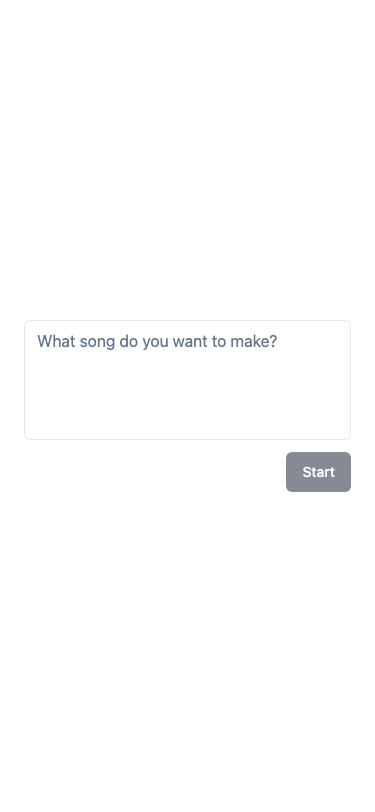
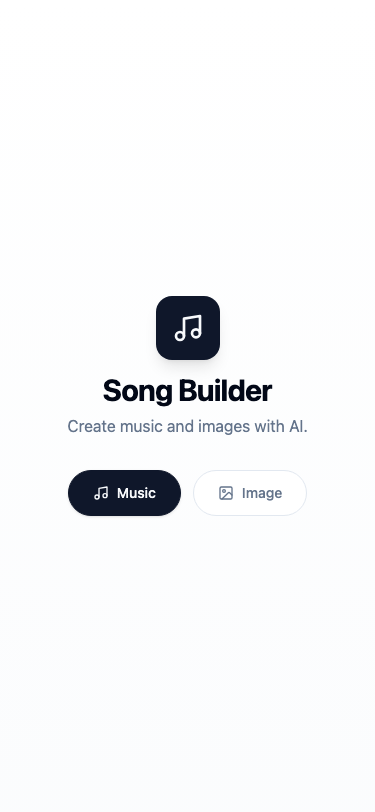
feat(US-009): add shared home at / with Music/Image tab switcher
- Add SharedHome component at src/shared/components/SharedHome.tsx
  showing Music and Image tab links with active state based on URL prefix
- Update App.tsx to render SharedHome at / instead of Navigate redirect
- Update home.spec.ts with new tab switcher assertions (US-009)
- Update smoke.spec.ts to verify SharedHome renders at /
- Update mobile-qa.spec.ts QA-01/QA-02 for new / behavior
- Update screenshot-baselines.spec.ts home tests for SharedHome content
- Regenerate home-desktop.png and home-mobile.png baselines

Changed region(s): [[0.088, 0.3387, 0.9387, 0.6466], [0.5867, 0.585, 0.616, 0.6158]]

diff --git a/tests/music/home.spec.ts b/tests/music/home.spec.ts
@@ -1,66 +1,51 @@
 /**
- * Tests for US-003: Home page redesign (single prompt, creates root message).
+ * Tests for US-009: Shared home at / with Music/Image tab switcher.
  *
  * Verifies that:
- * - The home page shows only a centered prompt input with the correct placeholder
- * - Submitting creates a root Message (parentId: null) in storage
- * - After submit the URL changes to /lyrics/:messageId
+ * - The root path / renders the SharedHome component with Music and Image tabs
+ * - Music tab links to /music, Image tab links to /image
+ * - Active tab highlighting reflects the current URL prefix
+ * - No top-bar or breadcrumbs are shown on the shared home
  */
 
 import { test, expect } from "@playwright/test";
 import { clearStorage } from "./helpers/seed";
 
-test.describe("Home page — single prompt (US-003)", () => {
+test.describe("Shared home page — tab switcher (US-009)", () => {
   test.beforeEach(async ({ page }) => {
     await clearStorage(page);
     await page.goto("/");
   });
 
-  test("shows a prompt textarea with correct placeholder", async ({ page }) => {
-    const textarea = page.getByPlaceholder("What song do you want to make?");
-    await expect(textarea).toBeVisible();
+  test("shows Music tab linking to /music", async ({ page }) => {
+    const musicTab = page.getByTestId("tab-music");
+    await expect(musicTab).toBeVisible();
+    await expect(musicTab).toHaveAttribute("href", "/music");
   });
 
-  test("shows a submit button", async ({ page }) => {
-    await expect(page.getByRole("button", { name: "Start" })).toBeVisible();
+  test("shows Image tab linking to /image", async ({ page }) => {
+    const imageTab = page.getByTestId("tab-image");
+    await expect(imageTab).toBeVisible();
+    await expect(imageTab).toHaveAttribute("href", "/image");
   });
 
-  test("does not show breadcrumbs or top bar on home", async ({ page }) => {
+  test("Music tab is active (aria-current=page) when at /", async ({ page }) => {
+    const musicTab = page.getByTestId("tab-music");
+    await expect(musicTab).toHaveAttribute("aria-current", "page");
+  });
+
+  test("Image tab is not active when at /", async ({ page }) => {
+    const imageTab = page.getByTestId("tab-image");
+    await expect(imageTab).not.toHaveAttribute("aria-current", "page");
+  });
+
+  test("does not show breadcrumbs or top bar on shared home", async ({ page }) => {
     await expect(page.getByTestId("top-bar")).not.toBeVisible();
+    await expect(page.getByLabel("Breadcrumb")).not.toBeVisible();
   });
 
-  test("submit creates a root Message and navigates to /lyrics/:messageId", async ({
-    page,
-  }) => {
-    const textarea = page.getByPlaceholder("What song do you want to make?");
-    await textarea.fill("A funky anthem about coffee");
-
-    await page.getByRole("button", { name: "Start" }).click();
-
-    // URL should have navigated to /lyrics/:messageId
-    await expect(page).toHaveURL(/\/music\/lyrics\/[^/]+$/);
-
-    // Extract messageId from URL
-    const url = page.url();
-    const messageId = url.split("/music/lyrics/")[1];
-
-    // Verify the message exists in storage with parentId: null
-    const message = await page.evaluate((id: string) => {
-      return window.storageService.getMessage(id);
-    }, messageId);
-
-    expect(message).not.toBeNull();
-    expect(message!.parentId).toBeNull();
-    expect(message!.role).toBe("user");
-    expect(message!.content).toBe("A funky anthem about coffee");
-  });
-
-  test("submit button is disabled when input is empty", async ({ page }) => {
-    await expect(page.getByRole("button", { name: "Start" })).toBeDisabled();
-  });
-
-  test("submit button is enabled after typing", async ({ page }) => {
-    await page.getByPlaceholder("What song do you want to make?").fill("hello");
-    await expect(page.getByRole("button", { name: "Start" })).toBeEnabled();
+  test("clicking Music tab navigates to /music", async ({ page }) => {
+    await page.getByTestId("tab-music").click();
+    await expect(page).toHaveURL("/music");
   });
 });

diff --git a/src/shared/components/SharedHome.tsx b/src/shared/components/SharedHome.tsx
@@ -1,0 +1,75 @@
+/**
+ * SharedHome — root landing page at /.
+ *
+ * Shows Music and Image tabs. Active tab is determined by the current URL prefix.
+ * Clicking a tab navigates to /music or /image.
+ *
+ * Acceptance criteria (US-009):
+ *   - Music tab links to /music
+ *   - Image tab links to /image
+ *   - Active tab visually highlighted based on current URL prefix
+ */
+
+import { Link, useLocation } from "react-router-dom";
+import { Music, ImageIcon } from "lucide-react";
+
+export default function SharedHome() {
+  const { pathname } = useLocation();
+
+  const musicActive = pathname.startsWith("/music") || pathname === "/";
+  const imageActive = pathname.startsWith("/image");
+
+  const tabBase =
+    "flex items-center gap-2 px-6 py-3 text-sm font-medium rounded-full border transition-colors";
+  const activeTab =
+    "bg-primary text-primary-foreground border-primary shadow-sm";
+  const inactiveTab =
+    "bg-background text-muted-foreground border-border hover:bg-accent hover:text-accent-foreground";
+
+  return (
+    <div
+      className="min-h-screen flex flex-col items-center justify-center gap-8 p-6 bg-gradient-to-b from-background to-secondary/30"
+      data-testid="shared-home"
+    >
+      {/* Branding */}
+      <div className="flex flex-col items-center gap-3 text-center">
+        <div className="w-16 h-16 rounded-2xl bg-primary flex items-center justify-center shadow-lg">
+          <Music className="w-8 h-8 text-primary-foreground" aria-hidden="true" />
+        </div>
+        <div>
+          <h1 className="text-3xl font-bold tracking-tight">Song Builder</h1>
+          <p className="mt-1.5 text-muted-foreground text-base">
+            Create music and images with AI.
+          </p>
+        </div>
+      </div>
+
+      {/* Tab switcher */}
+      <nav
+        aria-label="Feature tabs"
+        className="flex items-center gap-3"
+        data-testid="feature-tabs"
+      >
+        <Link
+          to="/music"
+          data-testid="tab-music"
+          className={`${tabBase} ${musicActive && !imageActive ? activeTab : inactiveTab}`}
+          aria-current={musicActive && !imageActive ? "page" : undefined}
+        >
+          <Music className="h-4 w-4 shrink-0" aria-hidden="true" />
+          Music
+        </Link>
+
+        <Link
+          to="/image"
+          data-testid="tab-image"
+          className={`${tabBase} ${imageActive ? activeTab : inactiveTab}`}
+          aria-current={imageActive ? "page" : undefined}
+        >
+          <ImageIcon className="h-4 w-4 shrink-0" aria-hidden="true" />
+          Image
+        </Link>
+      </nav>
+    </div>
+  );
+}

diff --git a/tests/music/mobile-qa.spec.ts b/tests/music/mobile-qa.spec.ts
@@ -67,28 +67,26 @@ test.describe("Mobile QA — all 20 flows at 375×812 (US-016)", () => {
     await page.setViewportSize(MOBILE);
   });
 
-  // ── Flow 1: Home page renders at mobile width ───────────────────────────────
+  // ── Flow 1: Shared home renders tab switcher at mobile width ────────────────
 
   test("QA-01: Home page renders correctly at mobile width", async ({ page }) => {
     await mobileGoto(page, "/", emptyFixture);
 
-    // Prompt textarea and submit button visible
-    await expect(
-      page.getByPlaceholder("What song do you want to make?")
-    ).toBeVisible();
-    await expect(page.getByRole("button", { name: "Start" })).toBeVisible();
+    // SharedHome tab switcher visible
+    await expect(page.getByTestId("tab-music")).toBeVisible();
+    await expect(page.getByTestId("tab-image")).toBeVisible();
 
-    // No breadcrumb on home
+    // No breadcrumb on shared home
     await expect(page.getByLabel("Breadcrumb")).not.toBeVisible();
 
     // No horizontal scroll
     await assertNoHorizontalScroll(page);
   });
 
-  // ── Flow 2: Home → submit → navigates to Lyrics Editor ────────────────────
+  // ── Flow 2: Music tab → Music home → submit → navigates to Lyrics Editor ──
 
   test("QA-02: Home prompt submit navigates to Lyrics Editor on mobile", async ({ page }) => {
-    await mobileGoto(page, "/", emptyFixture);
+    await mobileGoto(page, "/music", emptyFixture);
 
     await page.getByPlaceholder("What song do you want to make?").fill(
       "Write a pop song about summer"

diff --git a/tests/music/screenshot-baselines.spec.ts b/tests/music/screenshot-baselines.spec.ts
@@ -58,7 +58,7 @@ async function gotoSeeded(
   await page.waitForLoadState("networkidle");
 }
 
-// ─── Home page ───────────────────────────────────────────────────────────────
+// ─── Home page (SharedHome tab switcher) ─────────────────────────────────────
 
 test(
   "@screenshot:home home page desktop baseline",
@@ -67,9 +67,8 @@ test(
     await gotoSeeded(page, "/", emptyFixture);
 
     // Verify key content is visible before capturing
-    await expect(
-      page.getByPlaceholder("What song do you want to make?")
-    ).toBeVisible();
+    await expect(page.getByTestId("tab-music")).toBeVisible();
+    await expect(page.getByTestId("tab-image")).toBeVisible();
 
     await expect(page).toHaveScreenshot("home-desktop.png", {
       fullPage: true,
@@ -84,9 +83,8 @@ test(
     await page.setViewportSize(MOBILE);
     await gotoSeeded(page, "/", emptyFixture);
 
-    await expect(
-      page.getByPlaceholder("What song do you want to make?")
-    ).toBeVisible();
+    await expect(page.getByTestId("tab-music")).toBeVisible();
+    await expect(page.getByTestId("tab-image")).toBeVisible();
 
     await expect(page).toHaveScreenshot("home-mobile.png", {
       fullPage: true,

diff --git a/src/App.tsx b/src/App.tsx
@@ -1,10 +1,11 @@
 import { ReactNode, useEffect } from "react";
-import { BrowserRouter, Routes, Route, Navigate, useLocation } from "react-router-dom";
+import { BrowserRouter, Routes, Route, useLocation } from "react-router-dom";
 import { Music, List, Pin, Settings as SettingsIcon, Bug } from "lucide-react";
 import { Link } from "react-router-dom";
 import { Breadcrumb } from "@/music/components/Breadcrumb";
 import { NavMenu } from "@/shared/components/NavMenu";
 import type { MenuItem } from "@/shared/components/NavMenu";
+import SharedHome from "@/shared/components/SharedHome";
 import Home from "@/music/pages/Home";
 import LyricsList from "@/music/pages/LyricsList";
 import LyricsGenerator from "@/music/pages/LyricsGenerator";
@@ -120,8 +121,8 @@ export default function App() {
     <BrowserRouter>
       <RouteLogger />
       <Routes>
-        {/* Root redirect */}
-        <Route path="/" element={<Navigate to="/music" replace />} />
+        {/* Root — shared landing with Music/Image tab switcher */}
+        <Route path="/" element={<SharedHome />} />
 
         {/* Music — Home has no top bar */}
         <Route path="/music" element={<Home />} />

diff --git a/tests/music/smoke.spec.ts b/tests/music/smoke.spec.ts
@@ -2,12 +2,14 @@ import { test, expect } from "@playwright/test";
 import { seedFixture } from "./helpers/seed";
 import { emptyFixture } from "../fixtures/index";
 
-test("home page loads with empty state seeded via storageService.import", async ({ page }) => {
+test("shared home loads with empty state seeded via storageService.import", async ({ page }) => {
   // Seed empty state through the real import code path (same as the Settings import UI)
   await seedFixture(page, emptyFixture);
 
   await page.goto("/");
-  await expect(page.getByPlaceholder("What song do you want to make?")).toBeVisible();
+  // Root now shows the SharedHome tab switcher
+  await expect(page.getByTestId("shared-home")).toBeVisible();
+  await expect(page.getByTestId("tab-music")).toBeVisible();
 
   // Verify the import actually ran by confirming storage is empty
   const exported = await page.evaluate(() => window.storageService.export());
